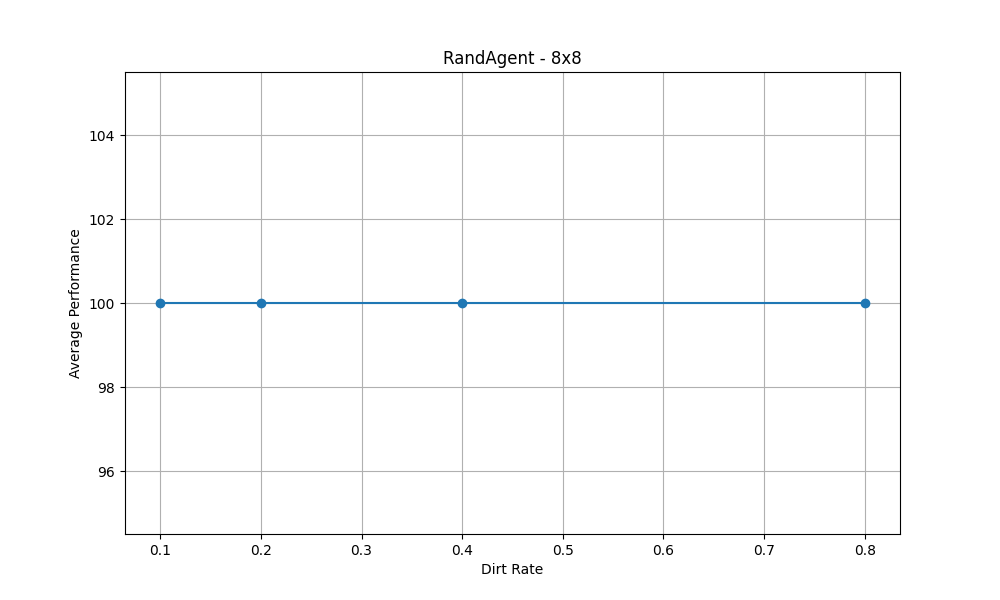
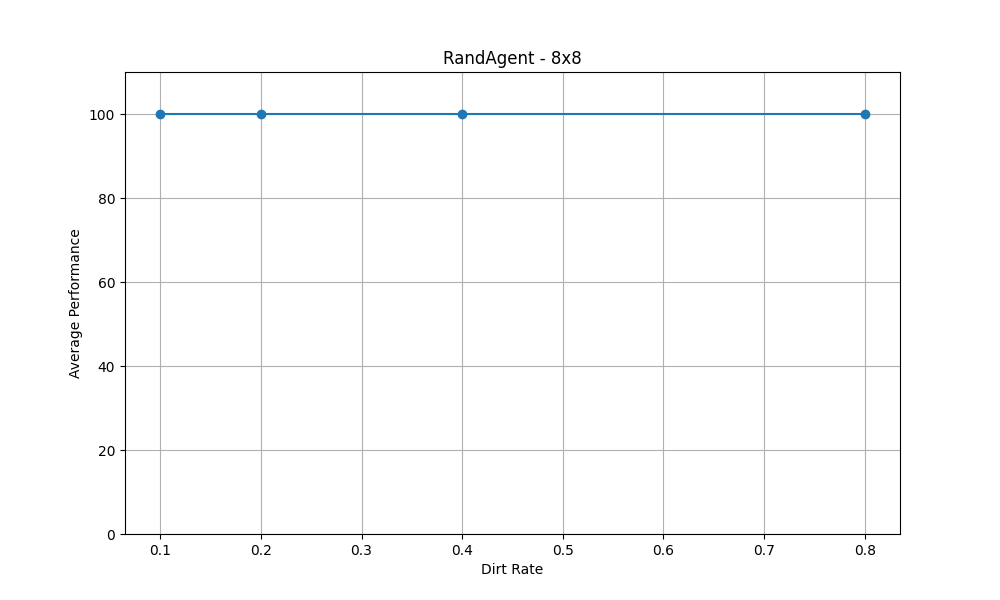
Modified results

diff --git a/tp2-agentes-racionales/code/results.py b/tp2-agentes-racionales/code/results.py
@@ -71,5 +71,6 @@ for agent_name in agent_names:
         plt.title(f'{agent_name} - {size}x{size}')
         plt.xlabel('Dirt Rate')
         plt.ylabel('Average Performance')
+        plt.ylim(0, 110)
         plt.grid()
         plt.show()

diff --git a/tp2-agentes-racionales/tp2-results.md b/tp2-agentes-racionales/tp2-results.md
@@ -10,9 +10,9 @@ Evaluar el desempeño del agente agente reflexivo (medida de desempeño y unidad
 2. Porcentaje de Suciedad en el ambiente: 0.1, 0,2 0,4, 0.8
 3. Repetir 10 veces cada combinación.
 
-**Nota:** Se recomienda elaborar una tabla en google sheets (o algo similar) en donde se presente los resultados en términos de la medida de rendimiento para cada uno de los casos. Esto luego se podrá utilizar para realizar alguna visualización de los resultados.
-
 ### Resultados
+
+**Average Performance** se calcula como: (total limpiado/suciedad inicial) * 100.
 
 ![Agente simple 2x2](pics/Simple_1.png)
 ![Agente simple 4x4](pics/Simple_2.png)
@@ -27,6 +27,8 @@ Repetir el procedimiento descrito en el punto C, para el caso de un agente con c
 
 ### Resultados
 
+**Average Performance** se calcula como: (total limpiado/suciedad inicial) * 100.
+
 ![Agente simple 2x2](pics/Figure_1.png)
 ![Agente simple 4x4](pics/Figure_2.png)
 ![Agente simple 8x8](pics/Figure_3.png)
@@ -36,6 +38,26 @@ Repetir el procedimiento descrito en el punto C, para el caso de un agente con c
 ![Agente simple 128x128](pics/Figure_7.png)
 
 ## Comparación
+
+| dirt_rate |              |     0.1      |     0.2      |     0.4      |     0.8      |
+|:---------:|:------------:|:------------:|:------------:|:------------:|:------------:|
+| agent_name | environment_size | | | |
+| RandAgent  |        2x2      | 100.000000   | 100.000000   | 100.000000   | 100.000000   |
+|            |        4x4      | 100.000000   | 100.000000   | 100.000000   | 100.000000   |
+|            |        8x8      | 100.000000   | 100.000000   | 100.000000   | 100.000000   |
+|            |      16x16      | 100.000000   | 100.000000   | 100.000000   |  82.497247   |
+|            |      32x32      | 100.000000   |  82.169074   |  40.435859   |  20.155529   |
+|            |      64x64      |  41.281892   |  21.084035   |  10.126054   |   5.003983   |
+|            |     128x128     |  10.087896   |  5.062855    |  2.618181    |  1.218101    |
+| SimpleAgent|        2x2      | 100.000000   | 100.000000   | 100.000000   | 100.000000   |
+|            |        4x4      | 100.000000   | 100.000000   | 100.000000   | 100.000000   |
+|            |        8x8      | 100.000000   | 100.000000   | 100.000000   |  98.398912   |
+|            |      16x16      |  70.669156   |  73.908132   |  73.205001   |  66.280554   |
+|            |      32x32      |  26.456850   |  25.471153   |  22.642354   |  23.010112   |
+|            |      64x64      |   7.526956   |   6.791559   |   7.282882   |   6.620408   |
+|            |     128x128     |   2.127350   |  1.965913    |  2.014288    |   1.392578   |
+
+### Resultados Viejos
 
 | dirt_rate |              |     0.1      |     0.2      |     0.4      |     0.8      |
 |:---------:|:------------:|:------------:|:------------:|:------------:|:------------:|
